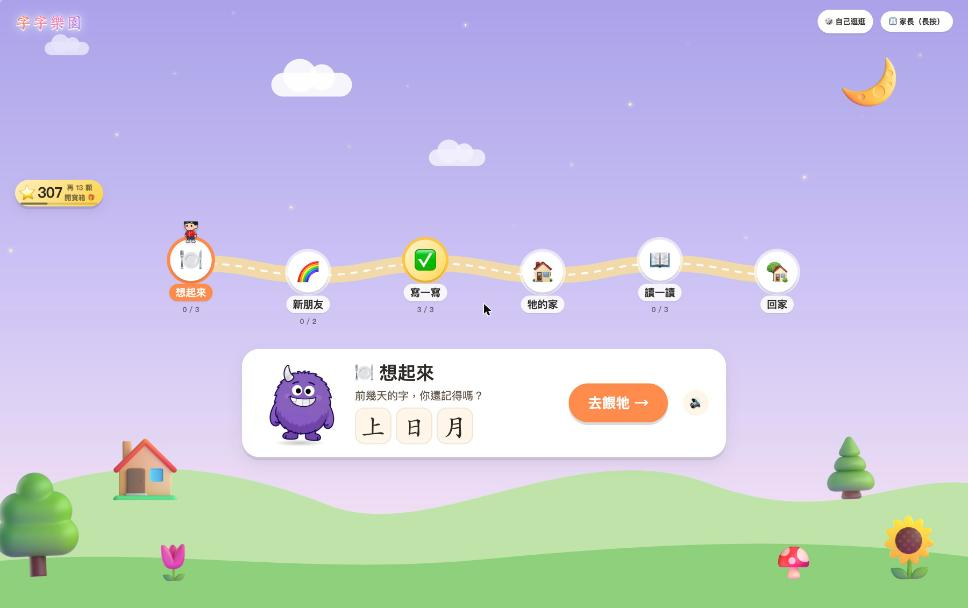
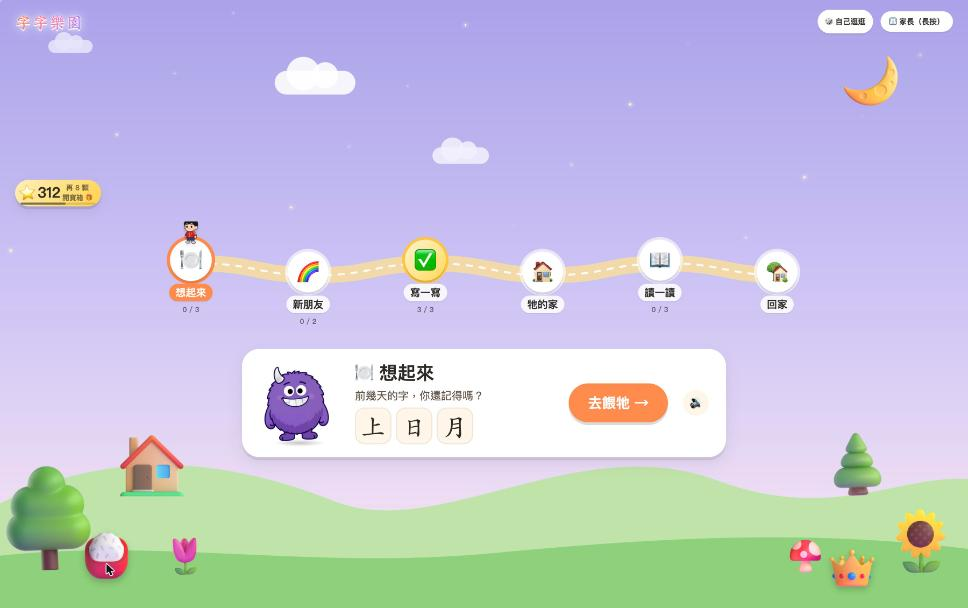
docs: 重拍首頁截圖（兩旁站著他變出來的東西）

diff --git a/docs/overnight/2026-11-06/MORNING.md b/docs/overnight/2026-11-06/MORNING.md
@@ -22,7 +22,7 @@
 
 | | 他看到的 | 截圖 |
 |---|---|---|
-| 1 | 首頁今天的路多一站「🪄 寫一寫」（在新朋友後面，今天要寫 3 個字） | `01-home-path.jpg` |
+| 1 | 首頁今天的路多一站「🪄 寫一寫」（在新朋友後面，今天要寫 3 個字）；兩旁站著他最近變出來的東西（🍚、👑），點了也進魔法筆 | `01-home-path.jpg` |
 | 2 | 夥伴說「你想先變哪一個？」，**他自己挑**。三張大卡，圖底下是字 | `02-choose.jpg` |
 | 3 | 夥伴許願（「我想送你一個愛心，幫我寫心！」），他在格子裡寫。背景是**他自己的魔法世界**，寫字時淡下來 | `03-writing.jpg` |
 | 4 | **他寫的那幾筆**（不是標準字形，是他自己的筆跡）浮起來發光、收攏，啵一聲變成那個東西，照意思動：魚游走、雨落下、球彈起來、肉飛進夥伴嘴裡 | `04-conjure-heart.jpg` |
